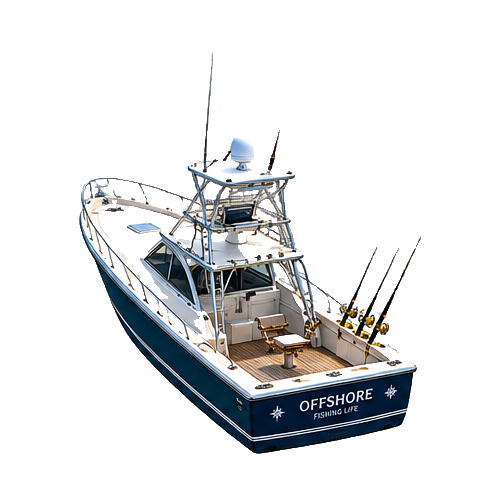
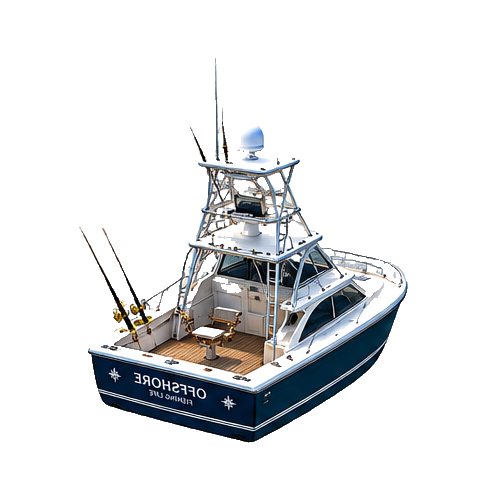
Add files via upload

Changed region(s): [[0.1543, 0.1235, 0.8642, 0.9259]]

diff --git a/index.html b/index.html
@@ -4,9 +4,9 @@
 <meta charset="utf-8">
 <meta name="viewport" content="width=device-width,initial-scale=1,viewport-fit=cover,user-scalable=no">
 <meta name="theme-color" content="#0b4f69">
-<meta name="app-version" content="2.9.0">
+<meta name="app-version" content="3.0.0">
 <meta http-equiv="Cache-Control" content="no-cache, no-store, must-revalidate">
-<title>Fishing Adventures V2.9</title>
+<title>Fishing Adventures V3.0</title>
 <style>
 *{box-sizing:border-box;-webkit-tap-highlight-color:transparent;user-select:none}html,body{margin:0;width:100%;height:100%;overflow:hidden;font-family:system-ui,-apple-system,BlinkMacSystemFont,"Segoe UI",sans-serif;background:#0b5870;color:#fff}button{font:inherit;color:inherit;border:0;touch-action:none}#app,.scene{position:absolute;inset:0;overflow:hidden}.scene{display:none}.scene.active{display:block}
 #boatScene{background:linear-gradient(#66b8c8 0 8%,#177394 8% 100%)}#boatScene:before{content:"";position:absolute;inset:8% 0 0;background:repeating-linear-gradient(165deg,rgba(255,255,255,.11) 0 2px,transparent 2px 22px),repeating-linear-gradient(15deg,rgba(255,255,255,.05) 0 1px,transparent 1px 30px)}
@@ -130,7 +130,7 @@ clip-path:polygon(3% 10%,97% 10%,97% 96%,3% 96%)}
 </head>
 <body>
 <div id="app">
-<section id="boatScene" class="scene active"><div class="oceanWorld" aria-hidden="true"><div class="oceanTexture" id="oceanTexture"></div></div><div class="boatWake"></div><div class="playBoat" id="playBoat"><img id="playBoatImg" src="boat_n.png?v=2.9.0" alt="Offshore-Angelboot"></div>
+<section id="boatScene" class="scene active"><div class="oceanWorld" aria-hidden="true"><div class="oceanTexture" id="oceanTexture"></div></div><div class="boatWake"></div><div class="playBoat" id="playBoat"><img id="playBoatImg" src="boat_n.png?v=3.0.0" alt="Offshore-Angelboot"></div>
   <div class="simWorld" id="simWorld" aria-hidden="true">
     <img class="simOceanPhoto" id="simOceanPhoto" src="simulator_ocean_v22.jpg?v=2.2.0" alt="">
     <div class="simWave"></div><div class="simWave w2"></div><div class="simSpray"></div>
@@ -138,7 +138,7 @@ clip-path:polygon(3% 10%,97% 10%,97% 96%,3% 96%)}
   <div class="hud" style="left:50%;top:16px;transform:translateX(-50%);font-weight:800;letter-spacing:.08em">OFFSHORE SIMULATOR</div>
   <div class="waveFoam" aria-hidden="true"><i></i><i></i><i></i><i></i><i></i></div>
   <div id="goal" class="hud"><div class="label">FREIE FAHRT</div><strong>Fahr, wohin du möchtest</strong><div id="goalText">Zum Angeln anhalten.</div></div>
-  <div class="hud version">V2.9</div>
+  <div class="hud version">V3.0</div>
   <div id="boat"><div class="wake"></div><img class="realBoat" src="offshore_boat_v20.png?v=2.0.0" alt="Isometrisches Offshore-Angelboot"></div>
   <div class="controls steer"><button id="leftBtn" class="ctrl">←</button><button id="rightBtn" class="ctrl">→</button></div>
   <div class="controls pedals"><button id="gasBtn" class="ctrl gas">G</button><button id="brakeBtn" class="ctrl brake">B</button></div>
@@ -146,7 +146,7 @@ clip-path:polygon(3% 10%,97% 10%,97% 96%,3% 96%)}
   <button id="fishBtn" class="hidden">🎣 Hier angeln</button>
 </section>
 <section id="fishingScene" class="scene">
-  <div class="hud version">V2.9</div>
+  <div class="hud version">V3.0</div>
   <div class="deckIso"><div class="console"></div><div class="cooler"></div><div class="rods"></div><div class="motor2"></div></div>
   <div id="player" class="player"><div class="head"></div><div class="body"></div><div class="leg l"></div><div class="leg r"></div><div class="shoe l"></div><div class="shoe r"></div></div>
   <div id="joystick" class="joy"><div id="stick" class="stick"></div></div>
@@ -191,7 +191,7 @@ function resetJoy(){joy.active=false;joy.id=null;joy.x=joy.y=0;stick.style.trans
 joystick.addEventListener('pointerdown',e=>{e.preventDefault();joy.active=true;joy.id=e.pointerId;try{joystick.setPointerCapture(e.pointerId)}catch(_){}setJoy(e.clientX,e.clientY)});joystick.addEventListener('pointermove',e=>{if(joy.active&&e.pointerId===joy.id)setJoy(e.clientX,e.clientY)});joystick.addEventListener('pointerup',resetJoy);joystick.addEventListener('pointercancel',resetJoy);
 let last=performance.now();function loop(now){const dt=Math.min(.035,(now-last)/1000);last=now;if(boatScene.classList.contains('active')){if(held.gas)state.speed+=.30*dt;else state.speed-=.07*dt;if(held.brake)state.speed-=.65*dt;state.speed=Math.max(0,Math.min(.32,state.speed));const turn=(.35+state.speed*2.6)*dt;if(held.left)state.angle-=90*turn;if(held.right)state.angle+=90*turn;const r=state.angle*Math.PI/180;
 const normAngle=((state.angle%360)+360)%360,dirNames=['n','ne','e','se','s','sw','w','nw'],dirName=dirNames[Math.round(normAngle/45)%8];
-if(playBoatImg.dataset.dir!==dirName){playBoatImg.src=`boat_${dirName}.png?v=2.9.0`;playBoatImg.dataset.dir=dirName;}
+if(playBoatImg.dataset.dir!==dirName){playBoatImg.src=`boat_${dirName}.png?v=3.0.0`;playBoatImg.dataset.dir=dirName;}
 const boatBob=Math.sin(now/420)*(1.4+state.speed*7),boatLean=(held.left?-4.5:0)+(held.right?4.5:0)+Math.sin(now/950)*.7;
 playBoat.style.transform=`translate(-50%,-50%) translateY(${boatBob}px) rotate(${boatLean}deg)`;
 boatScene.classList.toggle('movingBoat',state.speed>.025);
